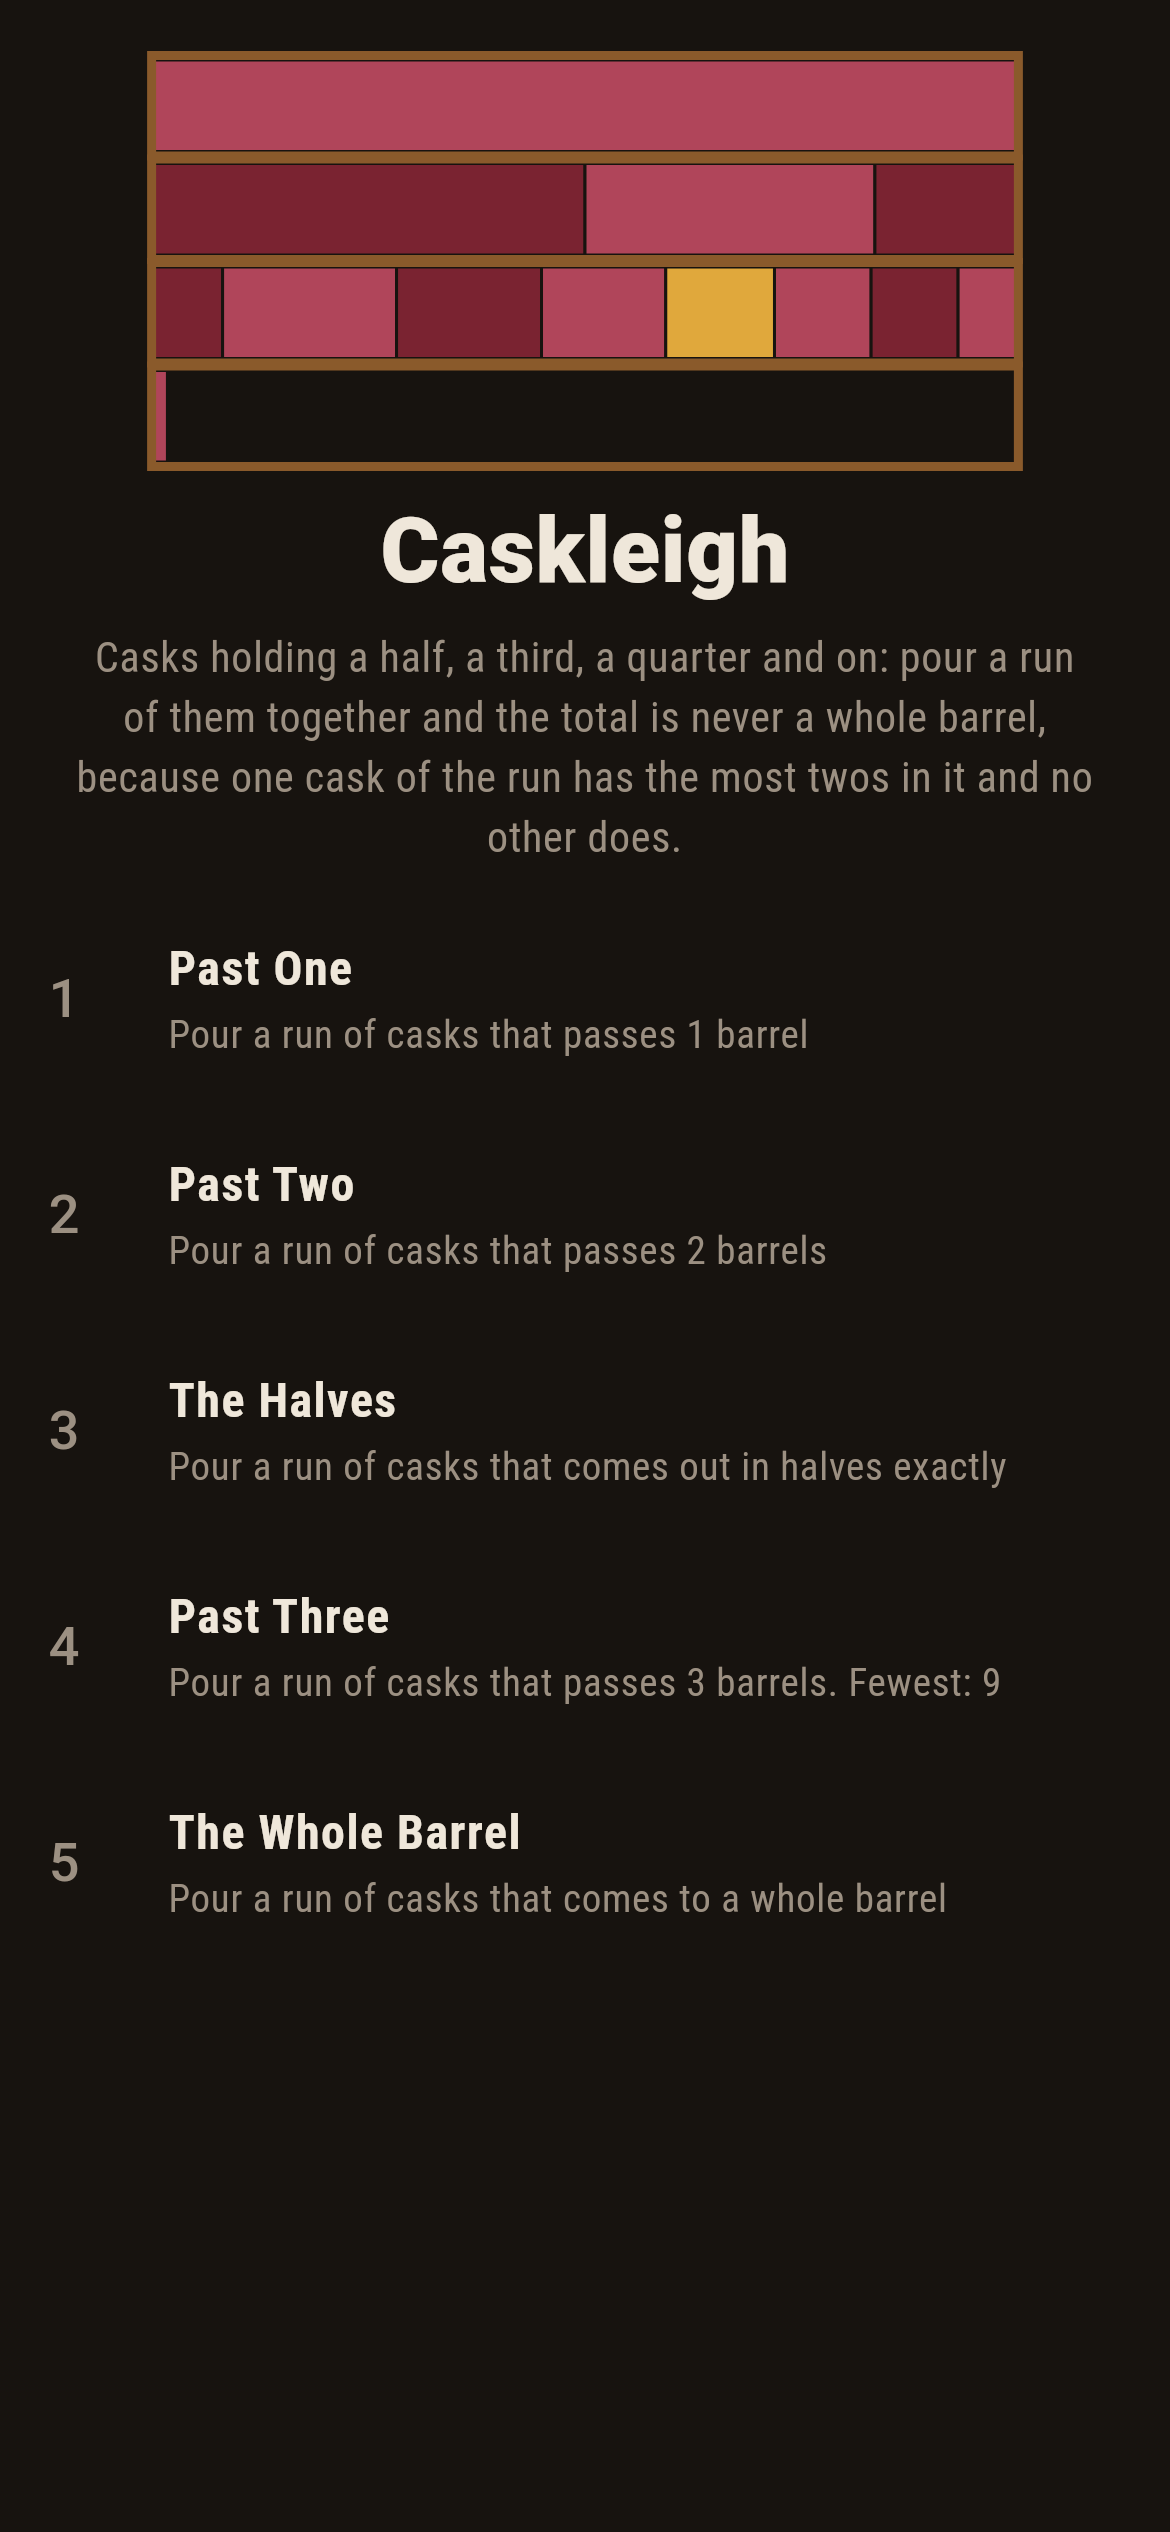
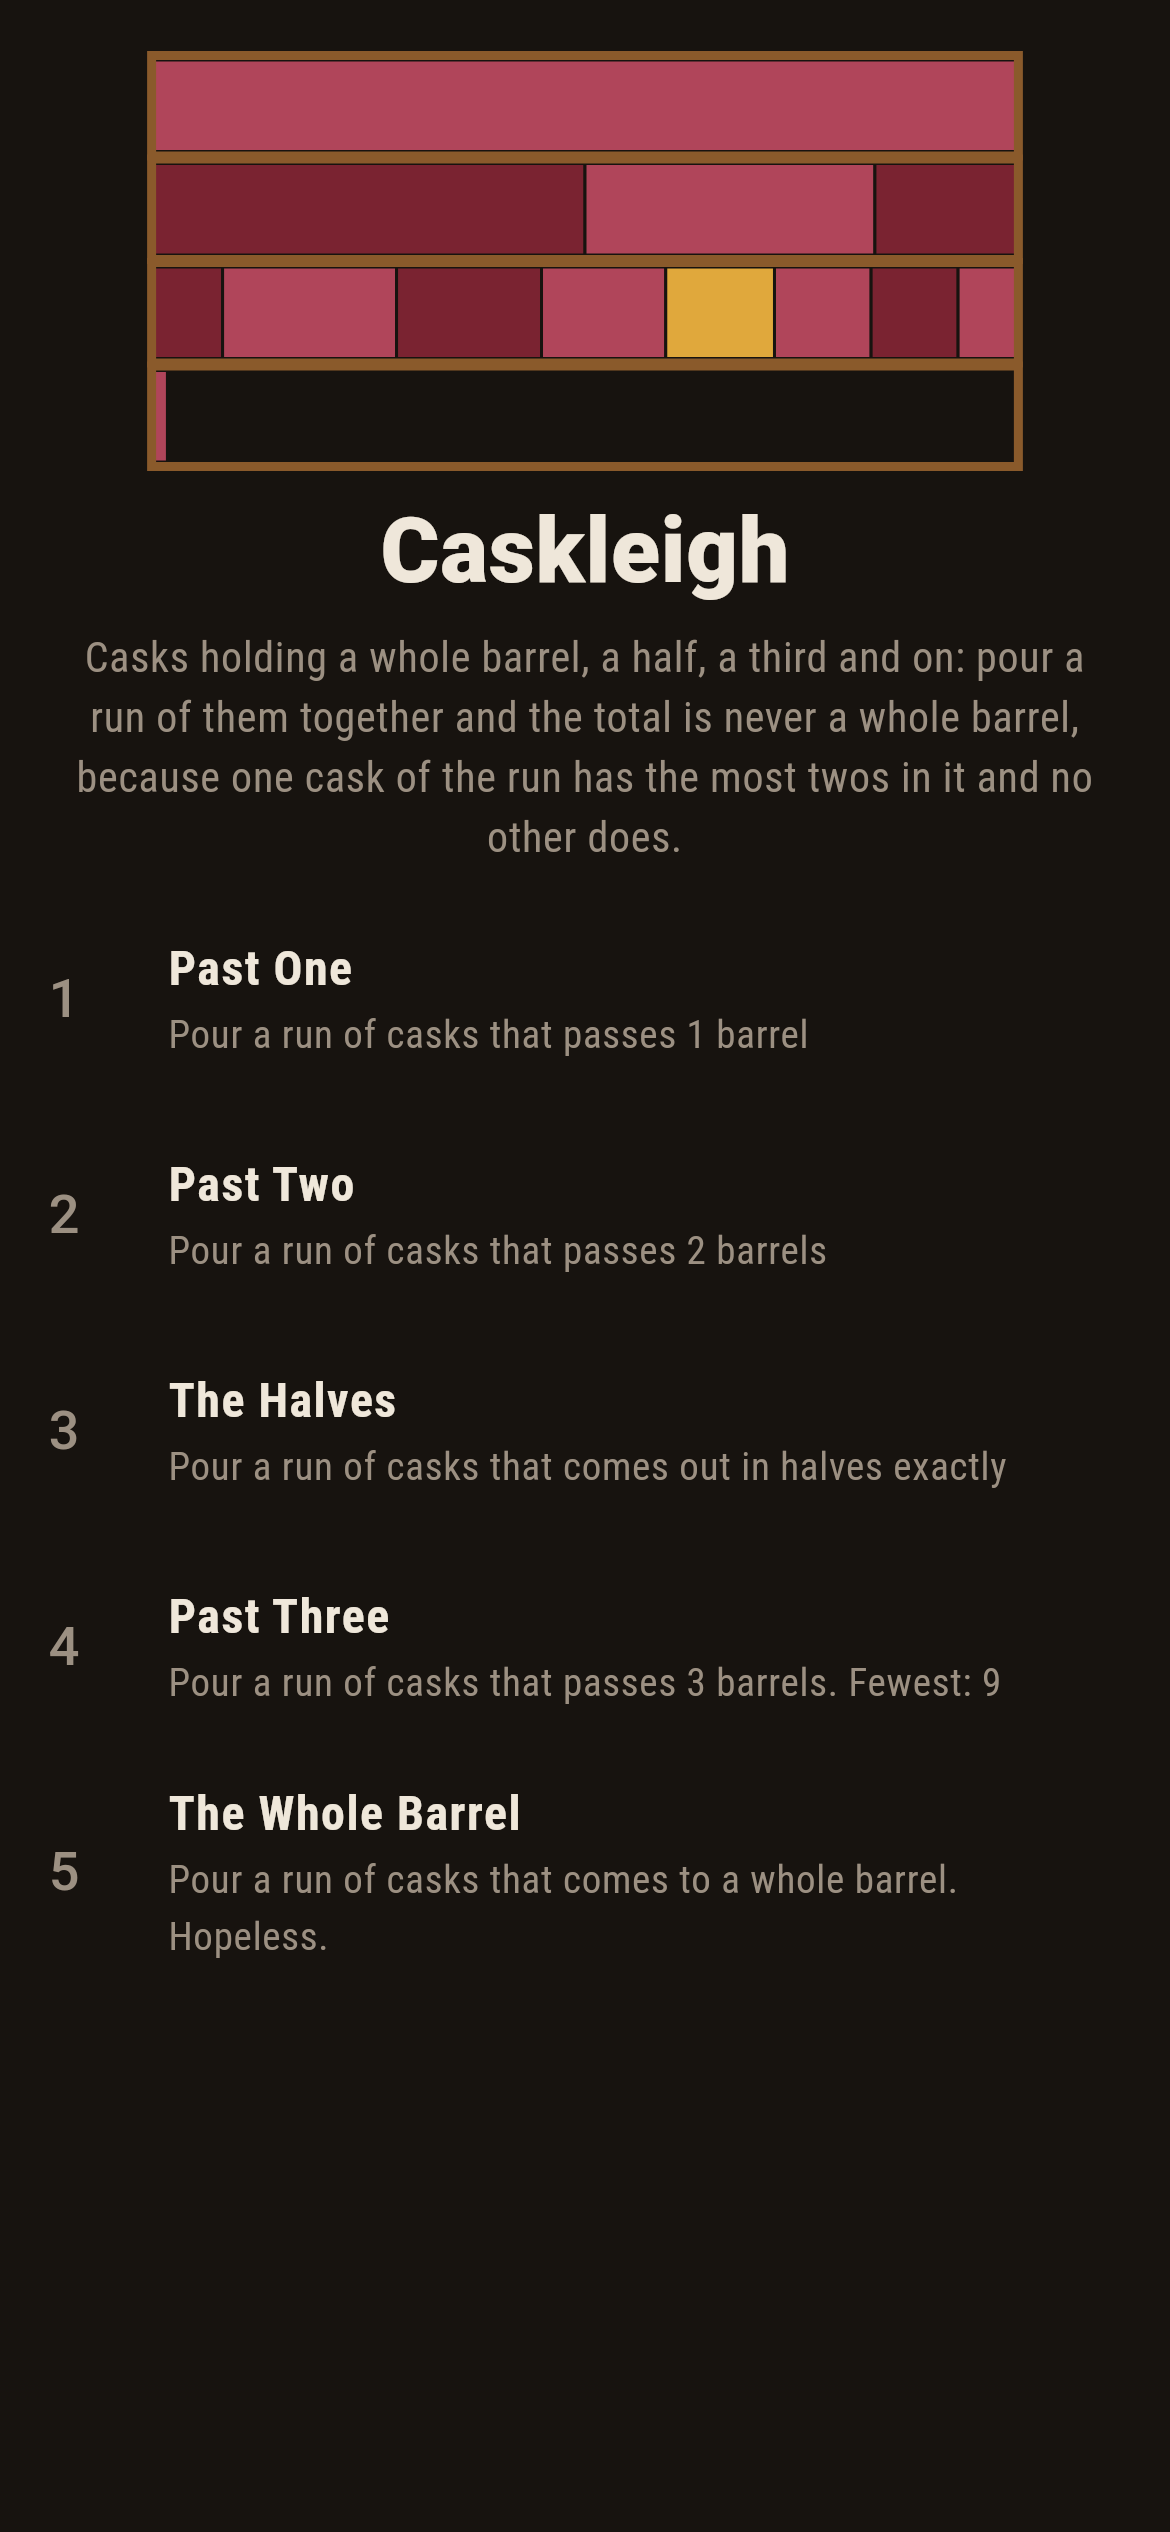
Caskleigh: what the checkers found in the prose

diff --git a/Caskleigh/tool/check_runs.dart b/Caskleigh/tool/check_runs.dart
@@ -42,6 +42,23 @@ void main() {
     // And that is what makes the bottom even.
     check(byCask.d.isEven,
         'the run ${Rules.tellRun(first, last)} came out over an odd bottom');
+    // The argument is made before anything cancels: over the smallest
+    // common bottom the top comes out odd and the bottom even.
+    final bottom = Rules.commonBottom(first, last);
+    final top = Rules.commonTop(first, last);
+    check(Frac(top, bottom) == byCask,
+        'the run ${Rules.tellRun(first, last)}: $top over $bottom against $byCask');
+    check(bottom.isEven && top.isOdd,
+        'the run ${Rules.tellRun(first, last)}: $top over $bottom');
+    for (var k = first; k <= last; k++) {
+      final goes = bottom ~/ BigInt.from(k);
+      check(bottom % BigInt.from(k) == BigInt.zero,
+          'cask $k does not divide the common bottom of '
+          '${Rules.tellRun(first, last)}');
+      check(goes.isOdd == (k == deepest.first),
+          'cask $k goes into the common bottom of '
+          '${Rules.tellRun(first, last)} $goes times');
+    }
     for (final level in Levels.all) {
       if (!level.meets(first, last)) continue;
       ways[level.name] = ways[level.name]! + 1;
@@ -127,6 +144,11 @@ void main() {
         '${Rules.most} casks, and each added twice, once cask by cask in '
         'exact fractions and once over the smallest common bottom in whole '
         'numbers alone: the two agree on every run')
+    ..write('; over the smallest common bottom, before anything cancels, '
+        'the deepest cask goes in an odd number of times and every other '
+        'cask an even number, so the top comes out odd and the bottom even '
+        'on all ${commas(runs)} runs: the first six casks go over 60, coming '
+        'to 147, which is the 49/20 the board reduces it to')
     ..write('; not one of the ${commas(runs)} comes to a whole barrel, and '
         'the reason is on the board: every run has exactly one cask with more '
         'twos in its number than any other, ${commas(oneDeepest)} runs out of '

diff --git a/Caskleigh/lib/ui/title_screen.dart b/Caskleigh/lib/ui/title_screen.dart
@@ -45,8 +45,8 @@ class _TitleScreenState extends State<TitleScreen> {
               const Padding(
                 padding: EdgeInsets.fromLTRB(24, 4, 24, 8),
                 child: Text(
-                  'Casks holding a half, a third, a quarter and on: pour a '
-                  'run of them together and the total is never a whole '
+                  'Casks holding a whole barrel, a half, a third and on: '
+                  'pour a run of them together and the total is never a whole '
                   'barrel, because one cask of the run has the most twos in '
                   'it and no other does.',
                   textAlign: TextAlign.center,
@@ -74,7 +74,7 @@ class _TitleScreenState extends State<TitleScreen> {
                       ),
                       subtitle: Text(
                         '${level.task[0].toUpperCase()}${level.task.substring(1)}'
-                        '${fewest == null ? '' : '. Fewest: $fewest'}',
+                        '${!level.winnable ? '. Hopeless.' : fewest == null ? '' : '. Fewest: $fewest'}',
                         style: const TextStyle(
                             color: Palette.inkDim, fontSize: 13),
                       ),

diff --git a/Caskleigh/lib/cask/rules.dart b/Caskleigh/lib/cask/rules.dart
@@ -48,6 +48,27 @@ class Rules {
 
   static BigInt _lcm(BigInt a, BigInt b) => a ~/ a.gcd(b) * b;
 
+  /// The smallest number every cask of the run divides into.
+  static BigInt commonBottom(int first, int last) {
+    var bottom = BigInt.one;
+    for (var k = first; k <= last; k++) {
+      bottom = _lcm(bottom, BigInt.from(k));
+    }
+    return bottom;
+  }
+
+  /// How many times the casks of the run go into that bottom, added
+  /// up. This is the total before anything is cancelled, which is the
+  /// form the argument is made in: odd on top, even underneath.
+  static BigInt commonTop(int first, int last) {
+    final bottom = commonBottom(first, last);
+    var top = BigInt.zero;
+    for (var k = first; k <= last; k++) {
+      top += bottom ~/ BigInt.from(k);
+    }
+    return top;
+  }
+
   /// How many twos are in [n].
   static int twos(int n) {
     var count = 0, left = n;

diff --git a/Caskleigh/lib/ui/caskview.dart b/Caskleigh/lib/ui/caskview.dart
@@ -145,13 +145,13 @@ class CaskView extends CustomPainter {
         right: true);
     // The second voice, under the barrels: the same run over a common
     // bottom, where the deepest cask is what leaves the top odd.
-    final total = play.total;
-    final digits = total.d.toString().length;
+    final bottom = Rules.commonBottom(play.first, play.last);
+    final digits = bottom.toString().length;
     _word(
         canvas,
         digits <= 12
-            ? 'over a common bottom of ${total.d} the run comes to '
-                '${total.n}, odd over even'
+            ? 'over a common bottom of $bottom the run comes to '
+                '${Rules.commonTop(play.first, play.last)}, odd over even'
             : 'over a common bottom of $digits digits the run comes out odd '
                 'over even',
         Offset(size.width / 2, strip.bottom + 15),

diff --git a/Caskleigh/lib/cask/levels.dart b/Caskleigh/lib/cask/levels.dart
@@ -47,10 +47,11 @@ class Levels {
       aim: (1, 11),
       note: '90 runs of the 1,770 pour more than three barrels, and the '
           'shortest is the first eleven casks. The total grows like the '
-          'logarithm, so each barrel costs nearly three times what the one '
-          'before it did: from the first cask it takes a run to the 2nd to '
-          'pass a barrel, to the 4th to pass two, to the 11th to pass three '
-          'and to the 31st to pass four.',
+          'logarithm, so the casks a barrel costs keep multiplying: from the '
+          'first cask it takes a run to the 2nd to pass a barrel, to the 4th '
+          'to pass two, to the 11th to pass three and to the 31st to pass '
+          'four, which is twice, then near three times, then near three '
+          'times again.',
     ),
     Level(
       name: 'The Whole Barrel',

diff --git a/Caskleigh/lib/cask/play.dart b/Caskleigh/lib/cask/play.dart
@@ -132,7 +132,8 @@ String whyWords(Play play) {
       'while the deepest divides in an odd number of times. So the top of '
       'the total is odd and the bottom is even, and an odd over an even is '
       'never whole. Jozsef Kurschak wrote it down in 1918, and Paul Erdos '
-      'gave another proof in 1932 using Bertrand\'s postulate.\n\n'
+      'gave another proof in 1932, in his second paper, using Bertrand\'s '
+      'postulate, which he had proved by hand in his first.\n\n'
       'The sham adds every run twice, once cask by cask in exact fractions '
       'and once over a common bottom in whole numbers, and marks the deepest '
       'cask on the board as you pour.\n\n'

diff --git a/Caskleigh/README.md b/Caskleigh/README.md
@@ -48,9 +48,10 @@ while the bottom is even, and an odd over an even is not a whole
 number.
 
 Jozsef Kurschak published this in 1918. Paul Erdos gave another proof
-in 1932, in his first paper, using Bertrand's postulate: the run
-contains a prime that appears in no other cask, which does the same
-work the twos do here.
+in 1932, in his second paper, using Bertrand's postulate, which he had
+proved by hand in his first that same year: the run contains a prime
+that appears in no other cask, which does the same work the twos do
+here.
 
 ## Two voices
 
@@ -64,9 +65,13 @@ everything at least twice:
   smallest number every cask of the run divides into, adds up how many
   times each one goes in, and only then makes a fraction of it.
 
-The two are compared on all 1,770 runs the cellar allows, along with
-the count of twos in each cask, whether any run comes to a whole
-barrel, and whether the deepest cask is ever anything but one cask.
+The two are compared on all 1,770 runs the cellar allows. So is the
+argument itself, cask by cask: over the smallest common bottom, the
+deepest cask goes in an odd number of times and every other cask an
+even number, so the top is odd and the bottom even before anything
+cancels. The checker also counts how many runs come to a whole barrel,
+which is none, and how many have more than one deepest cask, which is
+none either.
 
 `tool/check_runs.dart` runs the lot and refuses the bake on any
 disagreement.
@@ -77,7 +82,7 @@ What `dart run tool/check_runs.dart` printed for the build this README
 shipped with, word for word:
 
 ```
-every run of casks the cellar allows taken, from a first cask to a last with at least two of them, 1,770 runs over the 60 casks, and each added twice, once cask by cask in exact fractions and once over the smallest common bottom in whole numbers alone: the two agree on every run; not one of the 1,770 comes to a whole barrel, and the reason is on the board: every run has exactly one cask with more twos in its number than any other, 1,770 runs out of 1,770, and every total lands over an even bottom, 1,770 out of 1,770; the shortest runs past the marks are a 1st to a 2nd for 1, coming to 3/2, a 1st to a 4th for 2, coming to 25/12, a 1st to an 11th for 3, coming to 83711/27720; a run from the first cask has to reach the 2nd to pass a barrel, the 4th to pass two, the 11th to pass three and the 31st to pass four, and one starting at the second cask has to reach the 4th and the 11th; and one run alone comes out in halves exactly, the first two casks at 3/2
+every run of casks the cellar allows taken, from a first cask to a last with at least two of them, 1,770 runs over the 60 casks, and each added twice, once cask by cask in exact fractions and once over the smallest common bottom in whole numbers alone: the two agree on every run; over the smallest common bottom, before anything cancels, the deepest cask goes in an odd number of times and every other cask an even number, so the top comes out odd and the bottom even on all 1,770 runs: the first six casks go over 60, coming to 147, which is the 49/20 the board reduces it to; not one of the 1,770 comes to a whole barrel, and the reason is on the board: every run has exactly one cask with more twos in its number than any other, 1,770 runs out of 1,770, and every total lands over an even bottom, 1,770 out of 1,770; the shortest runs past the marks are a 1st to a 2nd for 1, coming to 3/2, a 1st to a 4th for 2, coming to 25/12, a 1st to an 11th for 3, coming to 83711/27720; a run from the first cask has to reach the 2nd to pass a barrel, the 4th to pass two, the 11th to pass three and the 31st to pass four, and one starting at the second cask has to reach the 4th and the 11th; and one run alone comes out in halves exactly, the first two casks at 3/2
 
  1 Past One         pour a run of casks that passes 1 barrel: 683 of the 1,770 runs land it, the cheapest in 1 tap
  2 Past Two         pour a run of casks that passes 2 barrels: 251 of the 1,770 runs land it, the cheapest in 2 taps
@@ -99,7 +104,8 @@ every run of casks the cellar allows taken, from a first cask to a last with at 
 Screenshots are drawn by `test/showcase_test.dart` at real phone sizes
 with the app's own painter, then copied into `docs/` as they came out;
 every run in them was set by taps, so nothing pictured is a pouring
-the game could not reach. The logo and every launcher icon come out of
+the game could not reach. The barrels across the top of the sham shot
+are the mark rather than a run of taps. The logo and every launcher icon come out of
 `test/mark_test.dart` the same way: the mark is the first eleven
 casks, three barrels full and a sliver over, with the eighth cask lit
 because it holds three twos and nothing else in the run holds as many.
